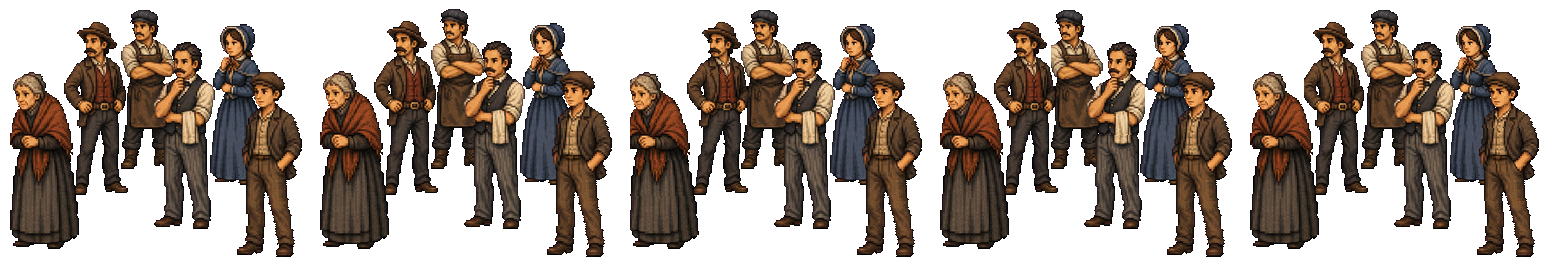
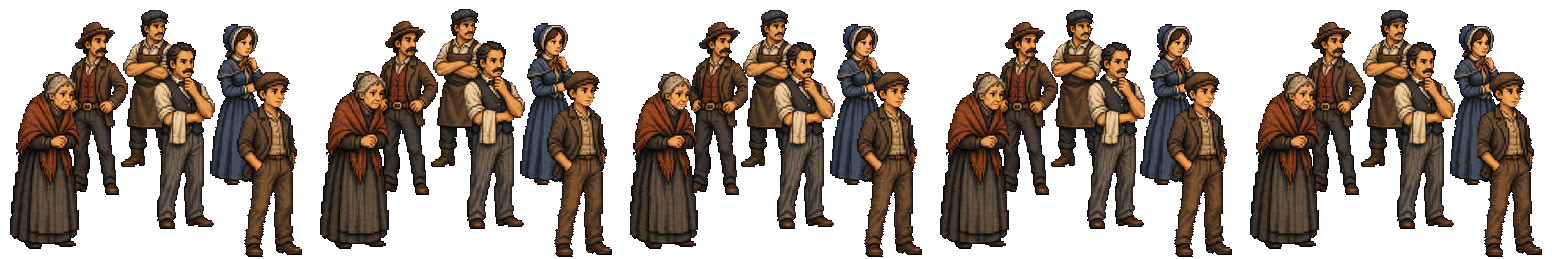
Duel Three: everyone looks toward the duel
Tyler: "As long as everyone is supposed to be looking where they're
looking." Measured, all eleven townspeople had been drawn looking left, so the
left crowd stared away from the duel; the bearded judge looked away from both
duellists. The left crowd is mirrored and the bearded judge's sheet too.

Lessons carried:
- tests/faces.test.mjs: a figure that must look somewhere declares faces and
  its rest frame is measured (fails on the unmirrored judge, -7.0).
- tools/art/room02-duel-town.py measures each townsperson's face and refuses
  a crowd with anyone facing away.
- doc 55 section 8: the generator does not reliably turn a figure as briefed.

Claude-Session: https://claude.ai/code/session_01FXbCupzwLJAEr7fqqWYP8A

diff --git a/tools/art/room02-duel-town.py b/tools/art/room02-duel-town.py
@@ -22,6 +22,13 @@ from PIL import Image
 ROOT = os.path.dirname(os.path.dirname(os.path.dirname(os.path.abspath(__file__))))
 B = os.path.join(ROOT, 'art/staging/cast-unify/batch-27')
 REF = 372                     # an ordinary man's height in the drawing, crown to sole
+# Each group looks toward the duel: the left group to its right, the right
+# group to its left. The drawing turned all eleven to the left, whatever the
+# brief asked (Tyler, 2026-11-06: "as long as everyone is supposed to be looking
+# where they're looking"), so a group whose people face the wrong way is
+# mirrored, and every person is measured after: the tool refuses to write a
+# crowd with anyone facing away.
+FACES = {'left': 'right', 'right': 'left'}
 GROUPS = {
     'left': ('row-right', [(2352, 738, 162), (2405, 712, 152), (2495, 728, 158), (2300, 792, 182), (2440, 772, 174), (2525, 800, 185)]),
     'right': ('row-left', [(3450, 718, 154), (3565, 748, 165), (3395, 760, 170), (3620, 795, 183), (3505, 805, 186)]),
@@ -38,6 +45,16 @@ def people(row):
     return out
 
 
+def facing(img):
+    """+ looks right, - looks left: the face's skin centroid against the head's, top 16%."""
+    a = np.asarray(img).astype(int); m = a[..., 3] > 128
+    rows = np.nonzero(m.any(1))[0]; top = rows[0]; H = rows[-1] - top
+    hd = a[top:top + max(4, int(H * 0.16))]; ha = hd[..., 3] > 128
+    r, g, b = hd[..., 0], hd[..., 1], hd[..., 2]
+    skin = ha & (r > 150) & (g > 95) & (r - b > 45)
+    return float(np.nonzero(skin)[1].mean() - np.nonzero(ha)[1].mean())
+
+
 def lean(img, dx):
     a = np.asarray(img).copy(); h = a.shape[0]; out = np.zeros_like(a)
     for yy in range(h):
@@ -51,6 +68,11 @@ def lean(img, dx):
 result = {}
 for side, (row, spots) in GROUPS.items():
     figs = people(row)
+    want = 1 if FACES[side] == 'right' else -1
+    figs = [f if facing(f) * want > 0 else f.transpose(Image.FLIP_LEFT_RIGHT) for f in figs]
+    wrong = [i for i, f in enumerate(figs) if facing(f) * want <= 1.0]
+    if wrong:
+        raise SystemExit(f'{side}: people {wrong} do not clearly face {FACES[side]}')
     placed = []
     for i, (x, y, man) in enumerate(spots):
         f = figs[i]; k = man / REF

diff --git a/docs/55-full-game-build.md b/docs/55-full-game-build.md
@@ -210,4 +210,5 @@ Every row here shipped past a green suite and was found by Tyler playing, by a r
 - **Judge a scene from the whole frame at game size, never from a crop.** Duel Three was approved from a crop of the porch; the whole frame showed Thad tiny in a doorway while Fanshawe called him out from the street, the map seller's map across Thad, and the dog under a crowd's feet (Tyler: "The main street scene is a MESS"). A crop hides exactly the relations that make a scene read. Thad now walks to face whoever calls him out (`accost.approach`), and nobody may stand where he comes in (`tests/staging-clear.test.ts`).
 - **Furniture on a floor seen at an angle is painted INTO the room, never drawn flat-on and laid over it.** The duel's judges' table was drawn frontally on magenta and laid on a porch seen from the left: its legs stood past the porch's front edge and the judges' boots hung in the air (Tyler: "Just a random table random placed on the porch… it's hanging off edges"). Anything that stands on a raked floor -- a table with people at it, a bench, a cart -- is an edit of the room's own plate that adds it, then cut by subtraction (`tools/art/room02-porch-judges.py`); its movement fills what a figure uncovers with the plate, not with his own old pixels (which drew two faces).
 - **A crowd scene is planned as one picture, then built from clean figures standing on surfaces.** Duel Three failed three times as a dozen figures adjusted one at a time (Tyler: "all the characters in this scene are still a mess"). What worked: paint the gathering into a local crop of the plate once to see where everyone stands and how big (an edit of the whole street re-lays the buildings and cannot be subtracted; dark coats on a dark wall cannot be cut out of an edit, even by GrabCut), then draw the people on magenta and stand each one where the picture put him -- feet on the street at the depth curve, or on a porch's boards clear of its edge, its corners and its posts. Furniture is dropped unless a line or a puzzle needs it.
+- **The generator does not reliably turn a figure the way the brief asks.** Eleven townspeople briefed half right, half left all came back looking left. Measure which way each face turns (`tests/faces.test.mjs`'s measure) and mirror the ones facing away, before placing them.
 - **Art needs the "OpenAI" environment.** A session without the key writes a brief (`reference/room-NN/<subject>/brief.md`, a verbatim prompt, a reference image, a generator, the cap in `art/staging/caps.json`) and hands Tyler a paste-ready prompt for a session in that environment. The barrel and Deke's walk were made this way.

diff --git a/docs/00-errata.md b/docs/00-errata.md
@@ -2783,3 +2783,5 @@ What Tyler still decides: acceptance of the art (errata 72 E, at the full playth
 **T · Duel Three recomposed: no table (Tyler, 2026-11-06).** Tyler: "Do we need the desk at all?" -- ruled no; doc 57 F4's "the judges' table on the boardwalk" is the only mention and no line or puzzle reads it. The three judges stand on the hotel porch between its door and its corner post, Sowerby with the pencil right of the post, all on the boards well back from the edge (`duel_judge_1..3`, replacing `duel_judges`); Fanshawe stands in the street turned to Thad, in his top hat. The two crowds are eleven distinct townspeople (cast-unify 29), each at his own spot on the street at its depth curve (`tools/art/room02-duel-town.py`). The composition was painted once into a crop of the porch (cast-unify 27) to place everyone; the figures were drawn on magenta (cast-unify 28, 29) because the dark coats could not be cut from the painting. Cast-unify 26 (the whole street) re-laid the buildings and was not used. Twenty-nine of thirty-five operations used. Pending Tyler's look at the whole frame before merge.
 
 **U · On the boards, not the wall (Tyler, 2026-11-06: "They're floating over the porch").** The judges' feet had been set at y 572, the foot of the hotel wall, above the porch's boards (y 584-606); the street's walk boxes cover that row, so the scale and staging checks passed. The boards were measured on the plate (`renders/main-street-porch-floor@6x.png`); the judges stand at y 597 and Sowerby at 601; Fanshawe moves to 2790,792 so his top hat stays below their feet. A figure on raised boards now declares `standsOn` -- the surface's outline -- and `tests/stands-on.test.mjs` holds his feet inside it (it fails with a judge back at y 572).
+
+**V · Everyone looks toward the duel (Tyler, 2026-11-06: "As long as everyone is supposed to be looking where they're looking").** Measured, the generator had drawn all eleven townspeople looking left whatever the brief said, so the left crowd stared away from the duel; and the bearded judge looked away from both duellists. The left crowd's people are mirrored by `tools/art/room02-duel-town.py`, which now measures each face and refuses a crowd with anyone facing away; the bearded judge's sheet is mirrored. A figure that must look somewhere declares `faces`, held by `tests/faces.test.mjs` (fails on the unmirrored judge, -7.0).
